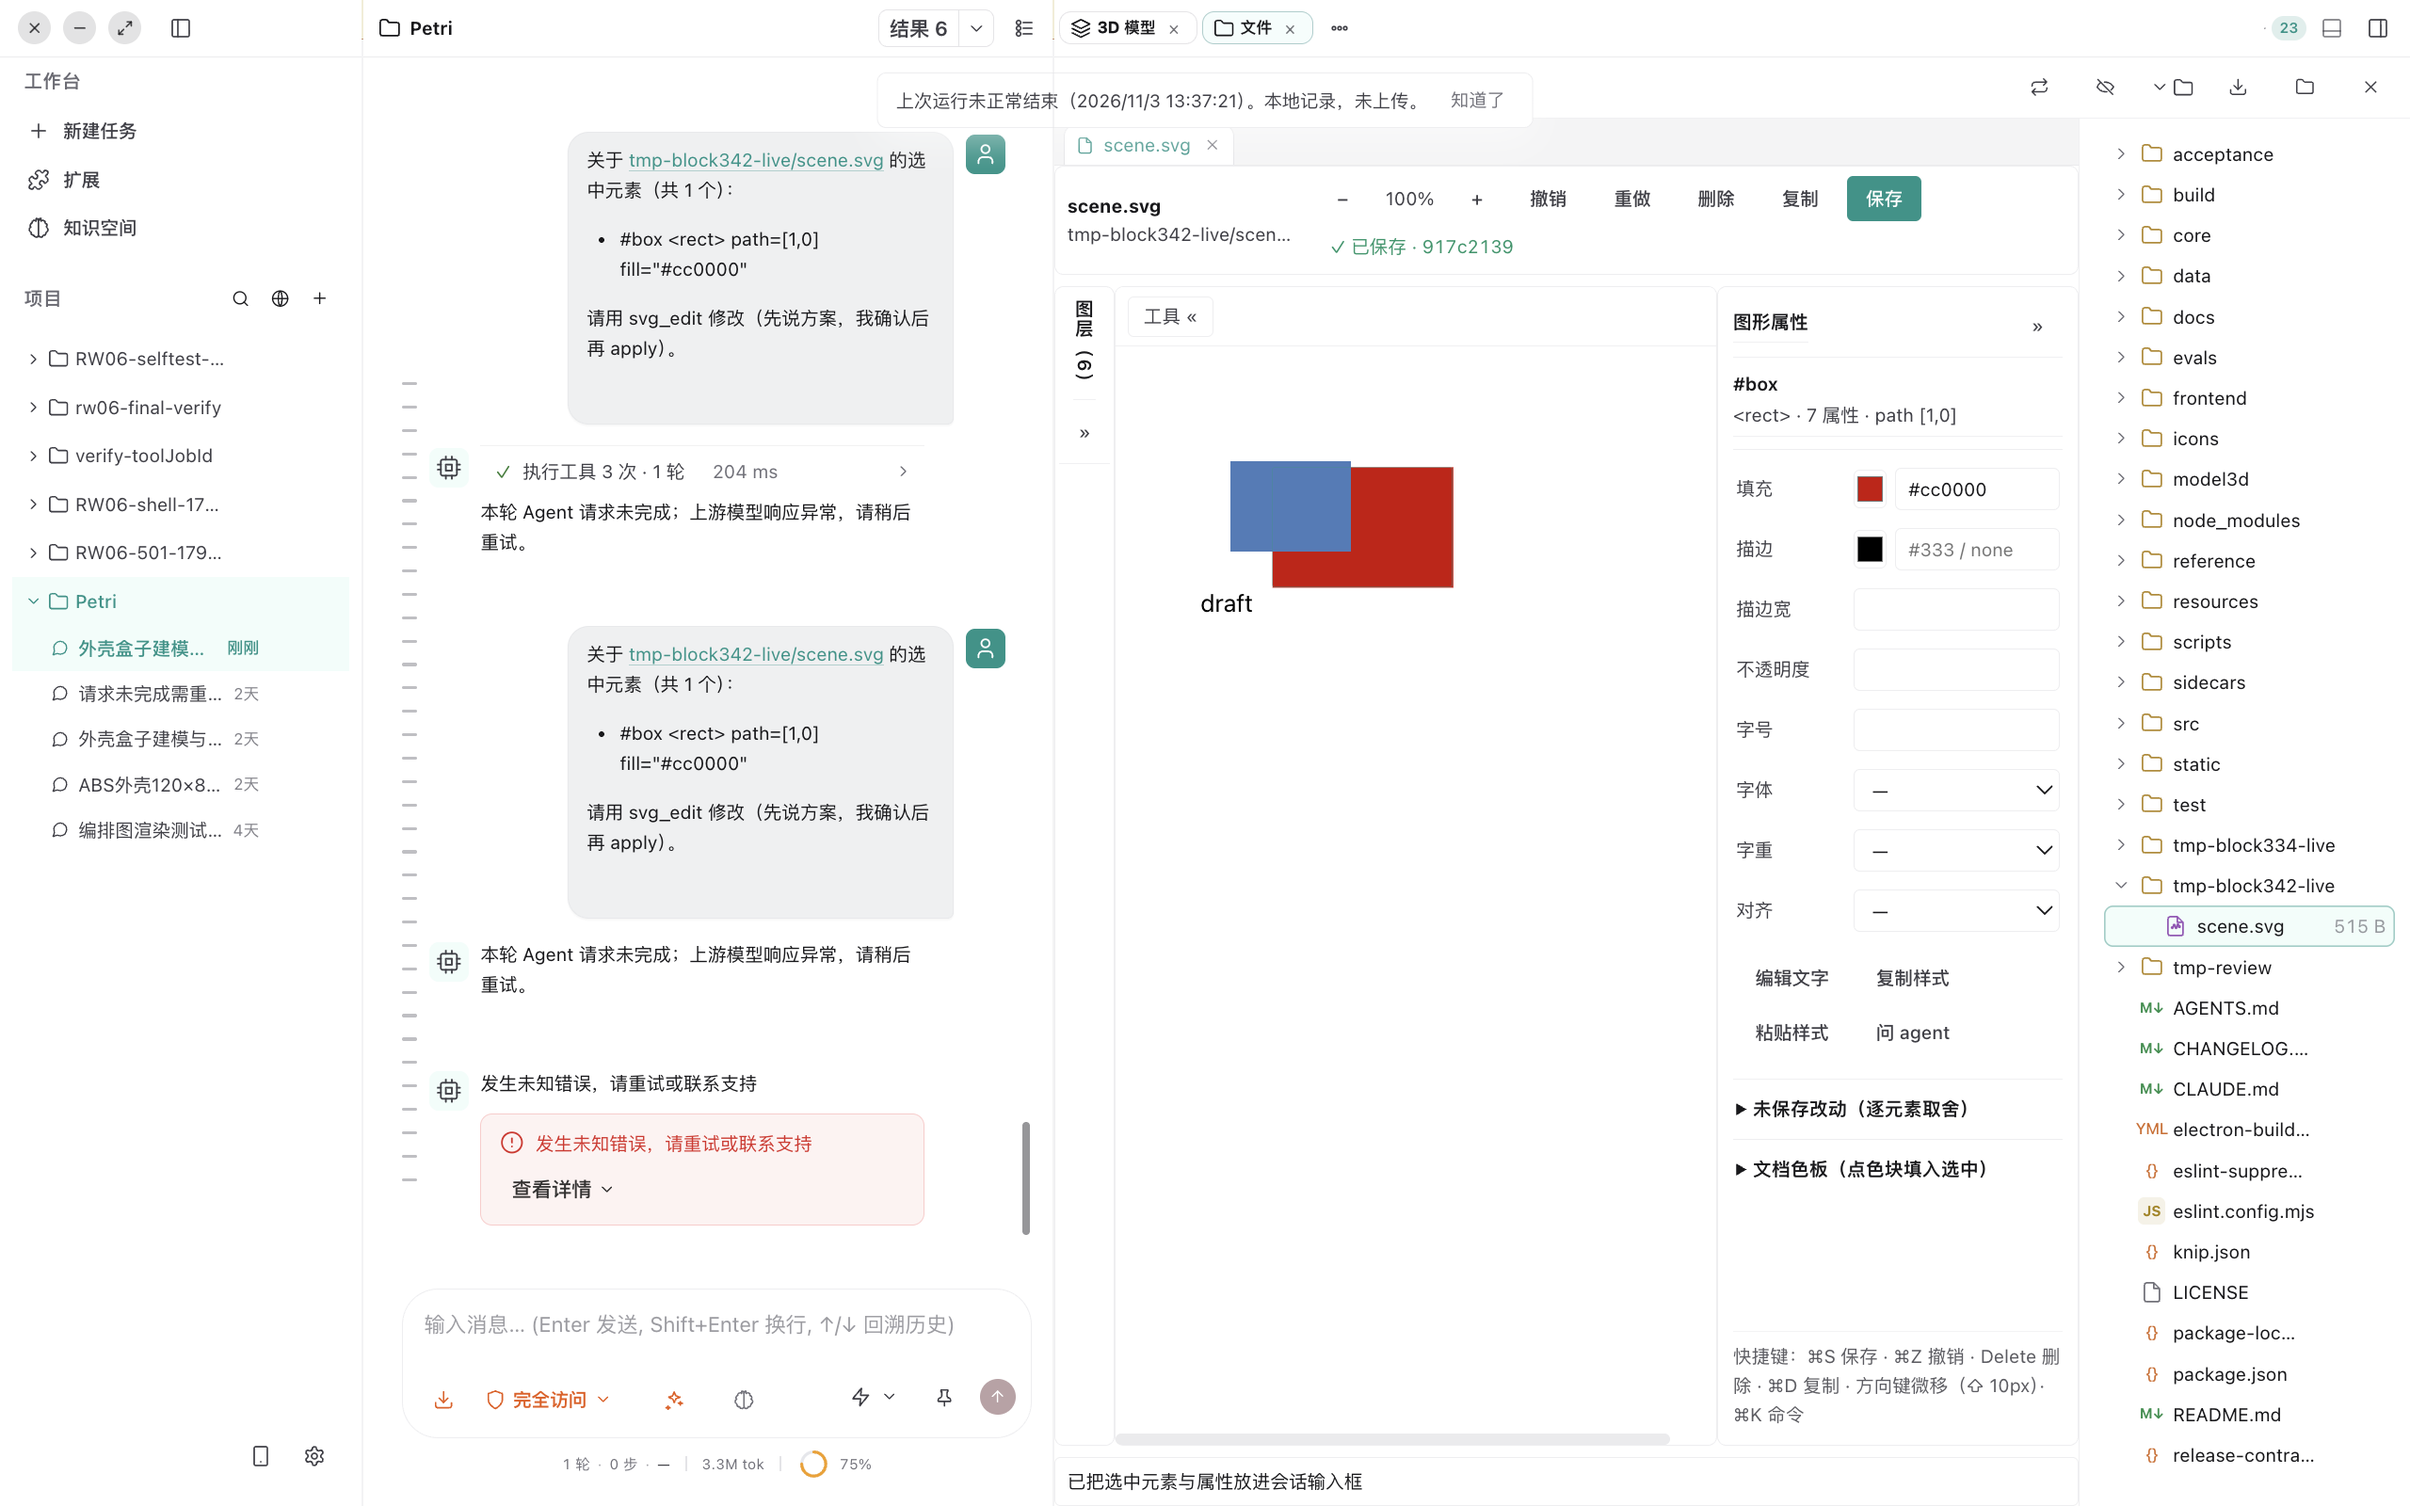
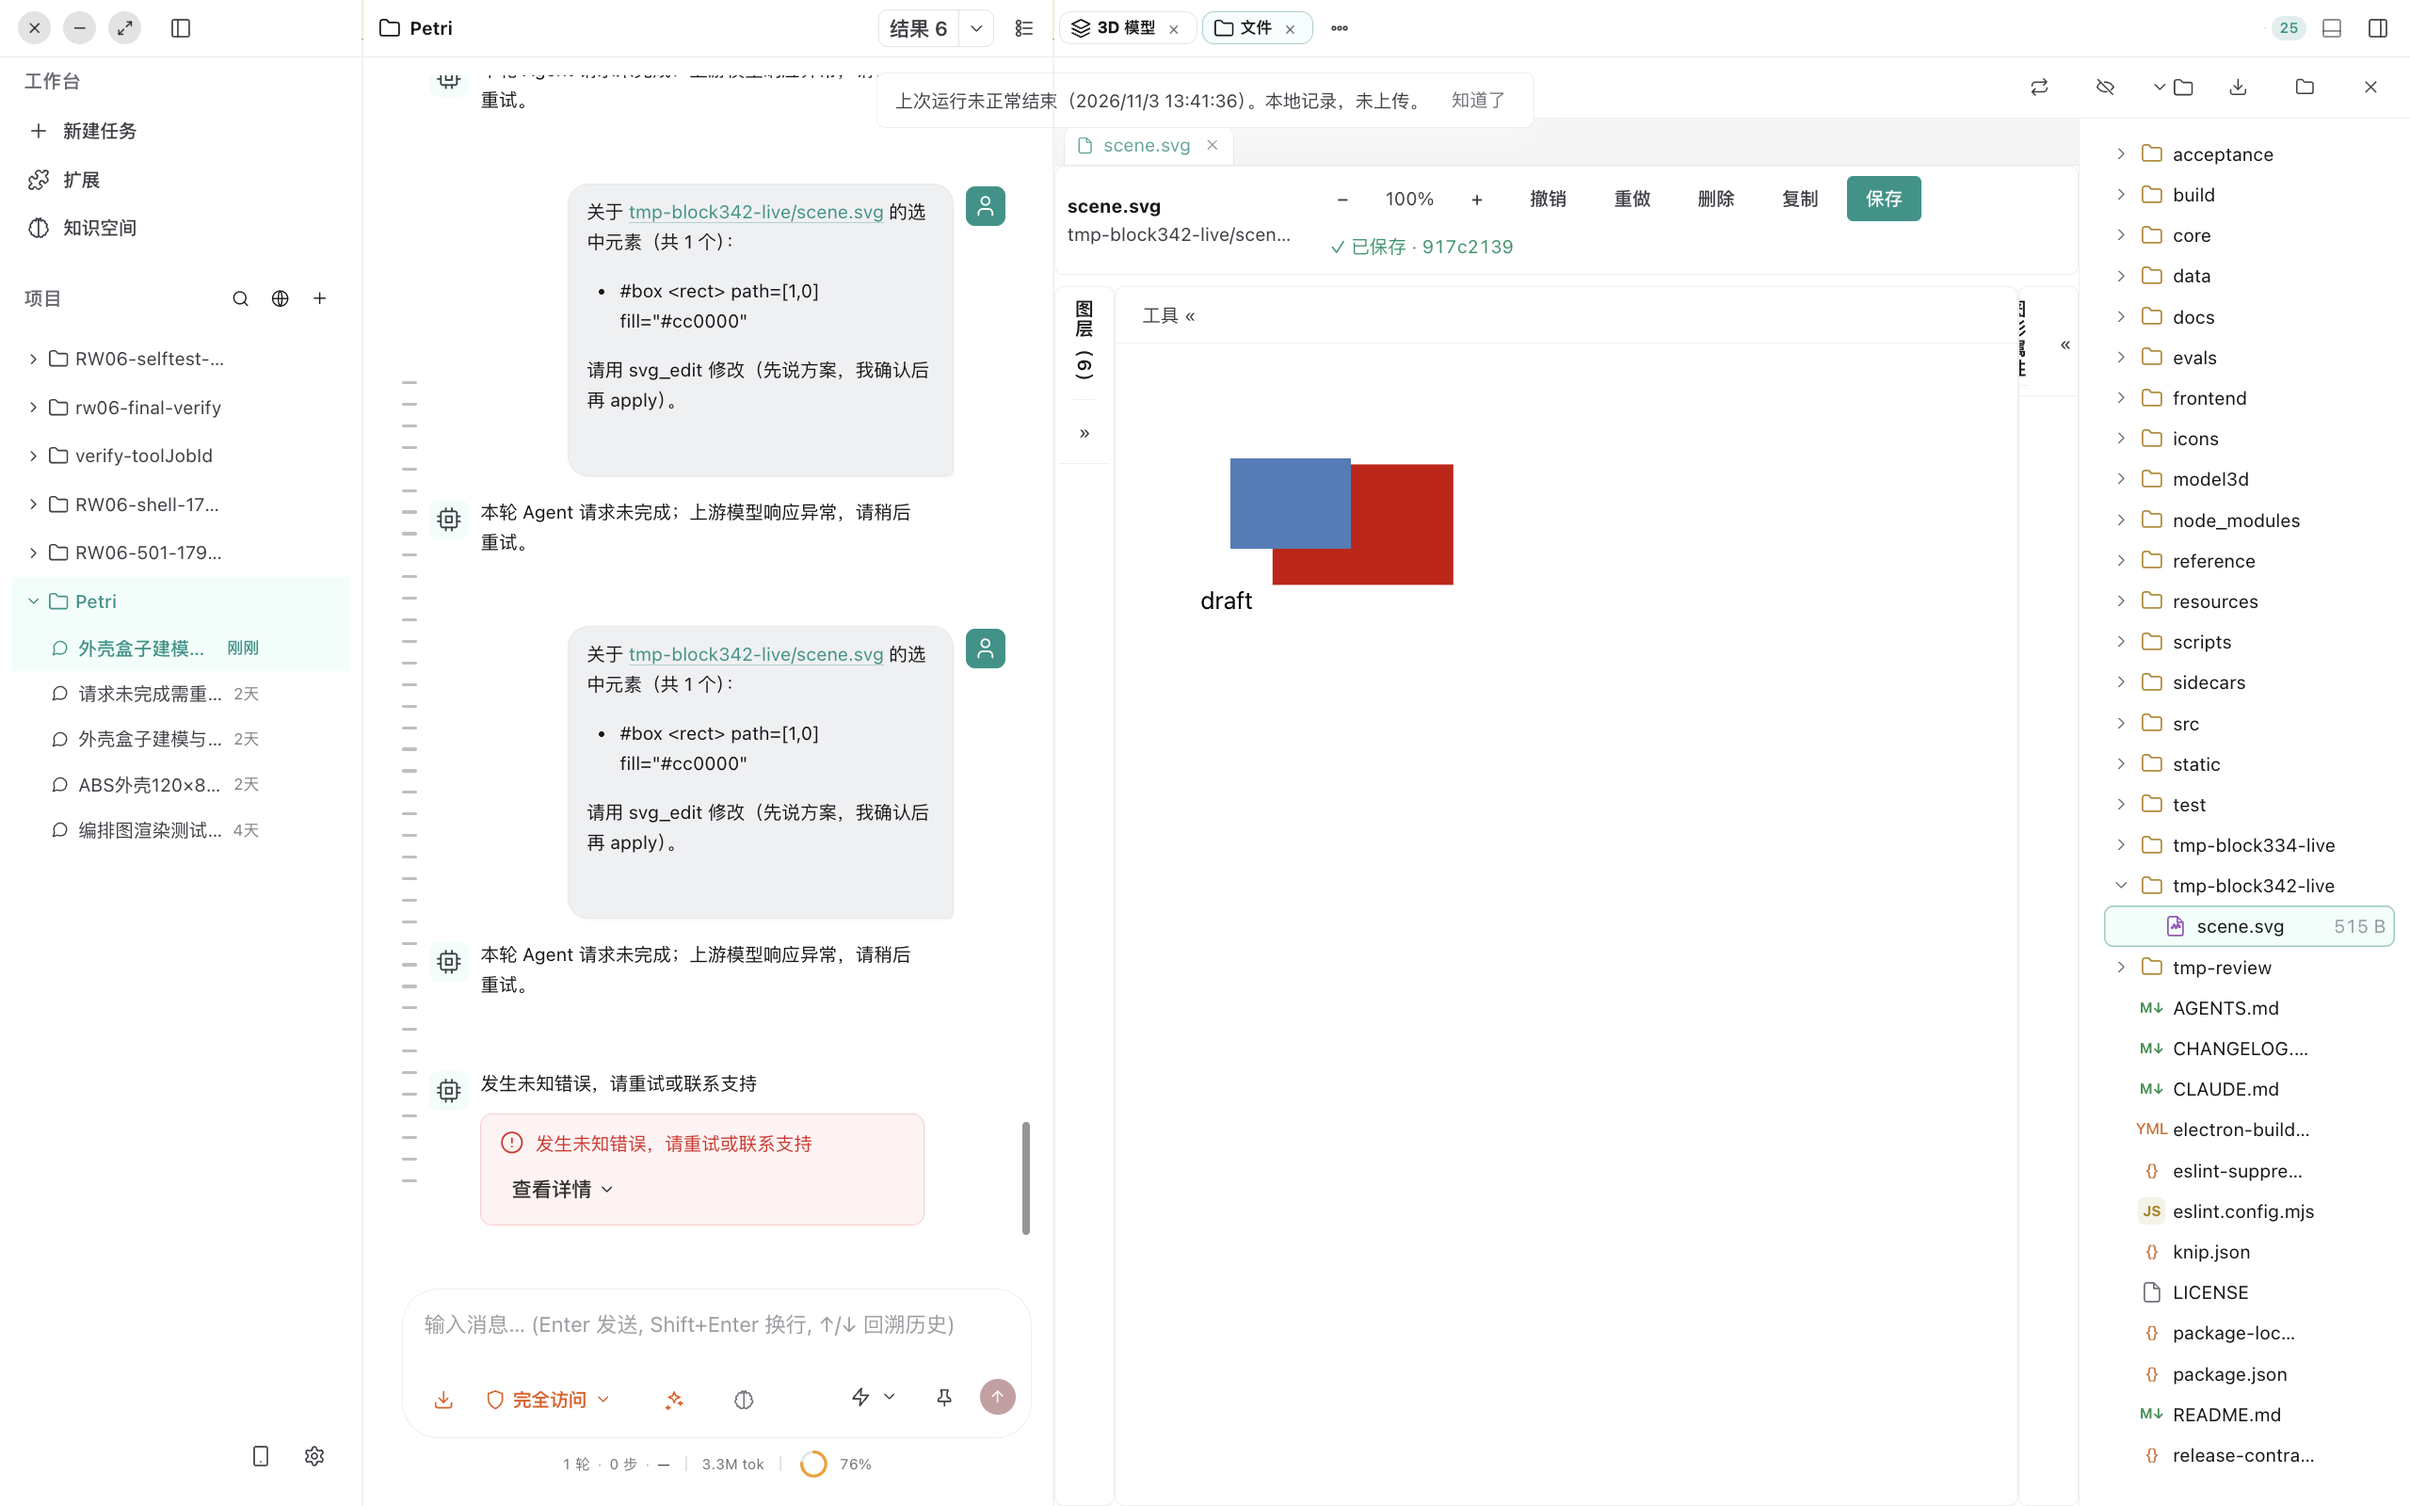
style(block-342): 工具按钮去边框（用户反馈线条过多）+ 折叠符号改箭头语义
工具按钮默认透明边框、hover 只给底色，仅当前工具保留 accent 边；工具条只留一条底部分隔线

折叠入口文案：收起「工具 ▾」/ 展开「工具 ▴」（原 «/» 语义相反）

theme 17/17 + 实机 28/28（另记：该 flow 存在首帧时序 flaky，重跑即绿）

diff --git a/frontend/src/components/svg-editor/SvgEditorViewer.module.css b/frontend/src/components/svg-editor/SvgEditorViewer.module.css
@@ -962,3 +962,31 @@
 .railToggle {
   display: none;
 }
+
+/* 工具按钮去线（用户反馈「很多线条」）：默认无边框只靠 hover 底色，
+   仅当前工具保留 accent 边；工具条只用一条底部分隔线。 */
+.toolbar {
+  border: none;
+  border-bottom: 1px solid var(--petri-divider);
+  gap: 2px;
+  padding: 6px 8px;
+}
+
+.tool {
+  border: 1px solid transparent;
+  background: transparent;
+  color: var(--petri-text-secondary);
+  padding: 3px 9px;
+}
+
+.tool:hover {
+  border-color: transparent;
+  background: var(--petri-hover);
+  color: var(--petri-text);
+}
+
+.toolActive {
+  border-color: var(--petri-accent-border);
+  background: var(--petri-accent-bg);
+  color: var(--petri-text);
+}

diff --git a/frontend/src/components/svg-editor/SvgEditorViewer.tsx b/frontend/src/components/svg-editor/SvgEditorViewer.tsx
@@ -760,7 +760,7 @@ export function SvgEditorViewer({ projectId, filePath, name, active = true }: Sv
                 title={sections.tools ? '收起工具组' : '展开工具组'}
                 onClick={() => toggleSection('tools')}
               >
-                {sections.tools ? '工具 »' : '工具 «'}
+                {sections.tools ? '工具 ▴' : '工具 ▾'}
               </button>
               <span className={styles.toolGroup} data-testid="svg-editor-tool-group" data-open={sections.tools ? '1' : '0'}>
               <button type="button" className={styles.tool} onClick={fitToView} data-action="fit">适应窗口</button>
